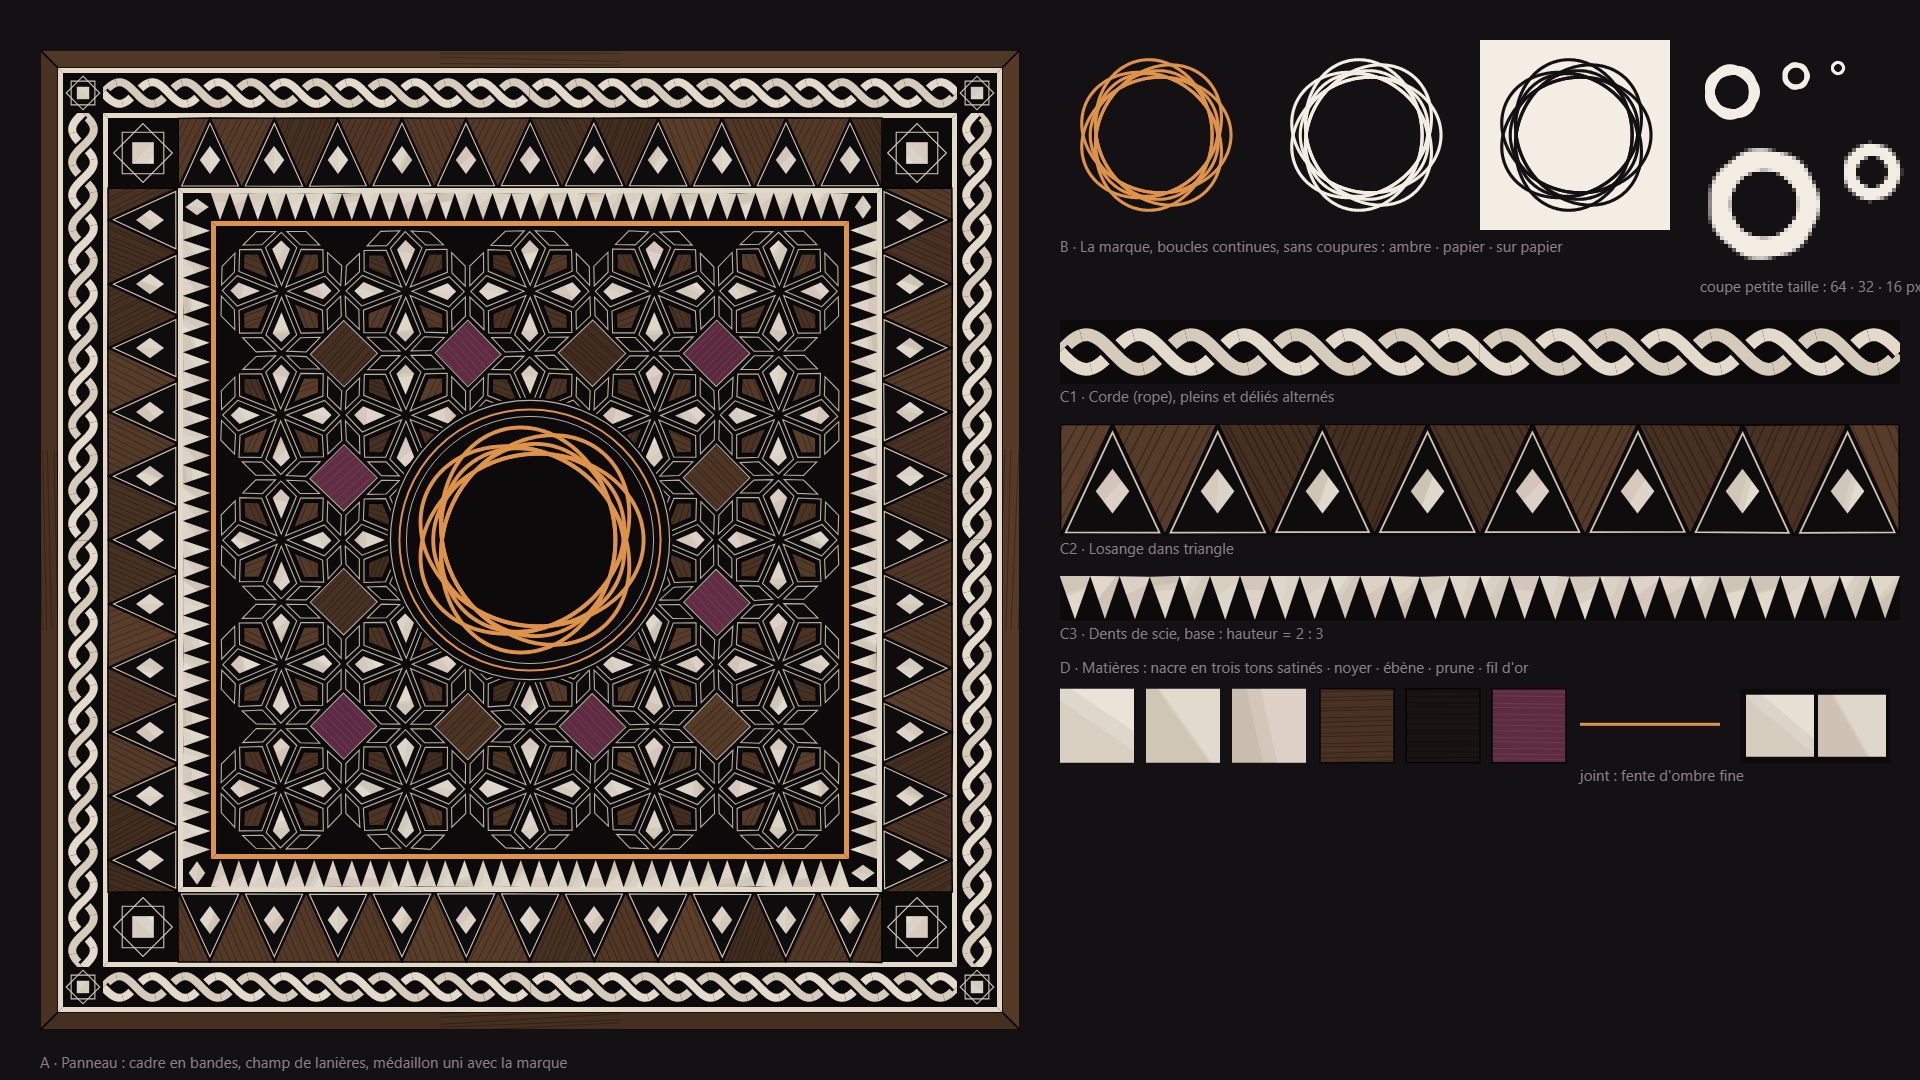
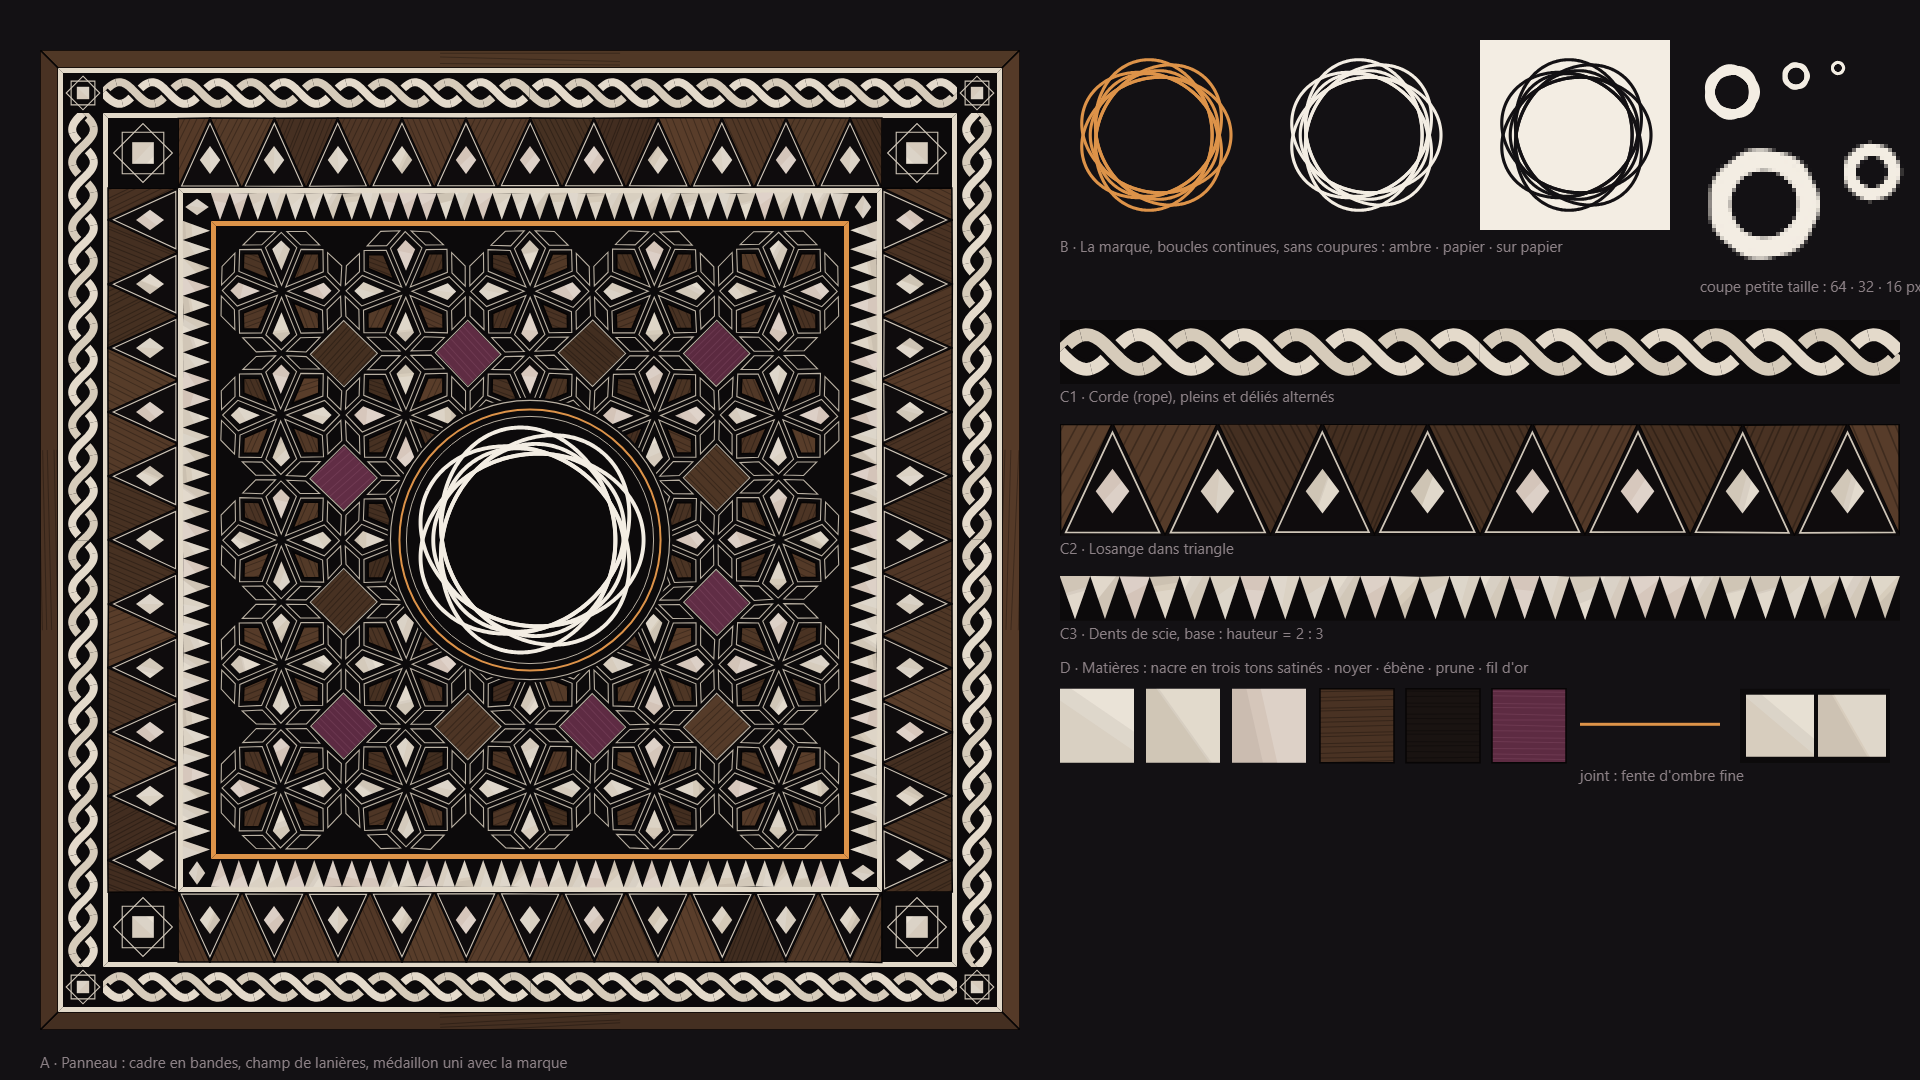
visuals: centre mark in Papier white

Changed region(s): [[0.2188, 0.3972, 0.3438, 0.6111]]

diff --git a/visuals/lib/panel.js b/visuals/lib/panel.js
@@ -193,7 +193,7 @@
     } });
 
     // the roundel and the mark
-    var r = 2.1 * S, nest = g.Nest.build(0, 0, (r - 17) / 108), NW = { w: Math.max(2.4, r * 0.03), weave: false, ground: GROUND, cols: [o.mark || "#DD9349"] };
+    var r = 2.1 * S, nest = g.Nest.build(0, 0, (r - 17) / 108), NW = { w: Math.max(2.4, r * 0.03), weave: false, ground: GROUND, cols: [o.mark || "#F3EDE3"] };
     add({ layer: "disc", custom: true, draw: function (ctx, p) { if (MASK.on) return; ctx.save(); ctx.beginPath(); ctx.arc(0, 0, (r + 12) * p, 0, TAU); ctx.clip(); ctx.fillStyle = GROUND; ctx.fillRect(-r - 20, -r - 20, 2 * r + 40, 2 * r + 40); ctx.restore(); } });
     function ringArc(rad, col, w) { return function (ctx, p) { if (MASK.on || p <= 0) return; ctx.strokeStyle = col; ctx.lineWidth = w; ctx.beginPath(); ctx.arc(0, 0, rad, -Math.PI / 2, -Math.PI / 2 + TAU * p); ctx.stroke(); }; }
     add({ layer: "ring1", custom: true, draw: ringArc(r + 9, "#B9B0A2", 1.2) });
